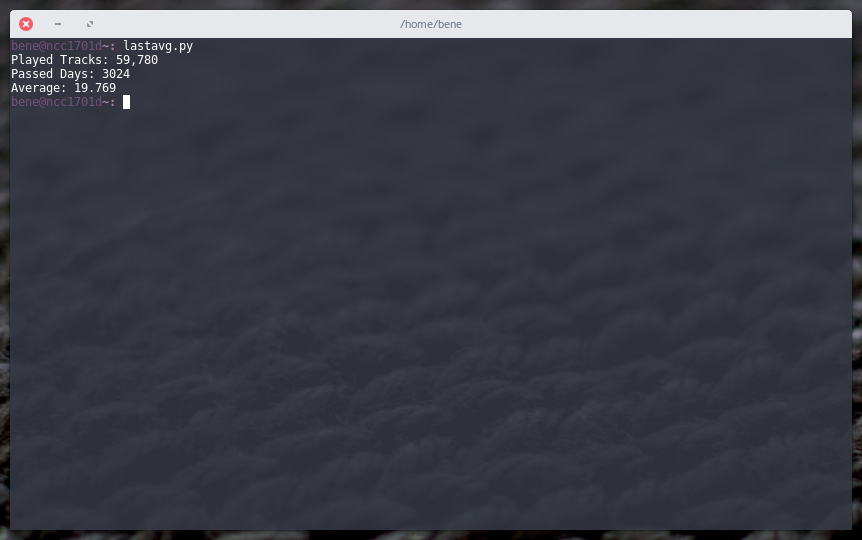
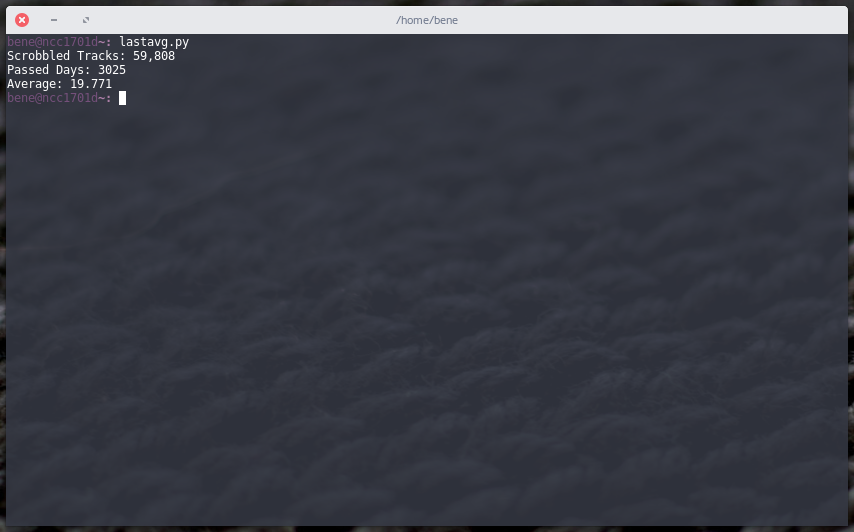
Screenshot update
Updated the screnshot

diff --git a/lastavg.py b/lastavg.py
@@ -26,6 +26,6 @@ play_count = stuff.xpath('//*[@id="content"]/div[2]/header/div[2]/div/div[2]/div
 clean_count = int(re.sub("[^\d\.]", "", play_count[0])) / int(delta.days + 1)
 
 # Display the stuff
-print ("Played Tracks: " + playcount[0])
+print ("Scrobbled Tracks: " + playcount[0])
 print ("Passed Days: " + str(int(delta.days + 1)))
 print ("Average: " + str("%.4f" % clean_count))
